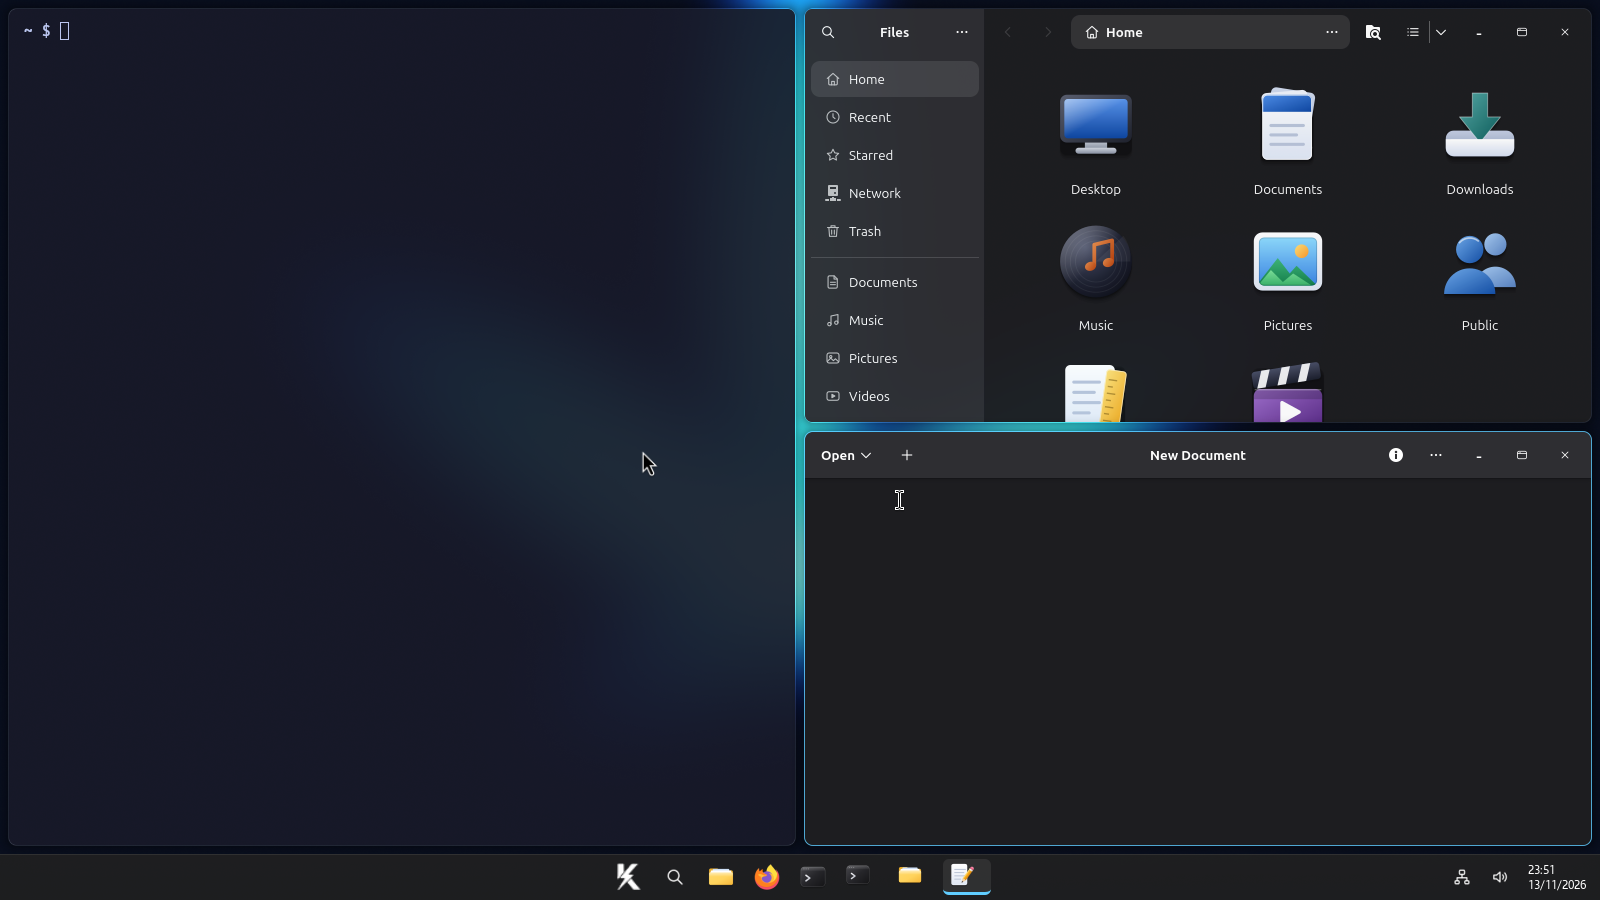
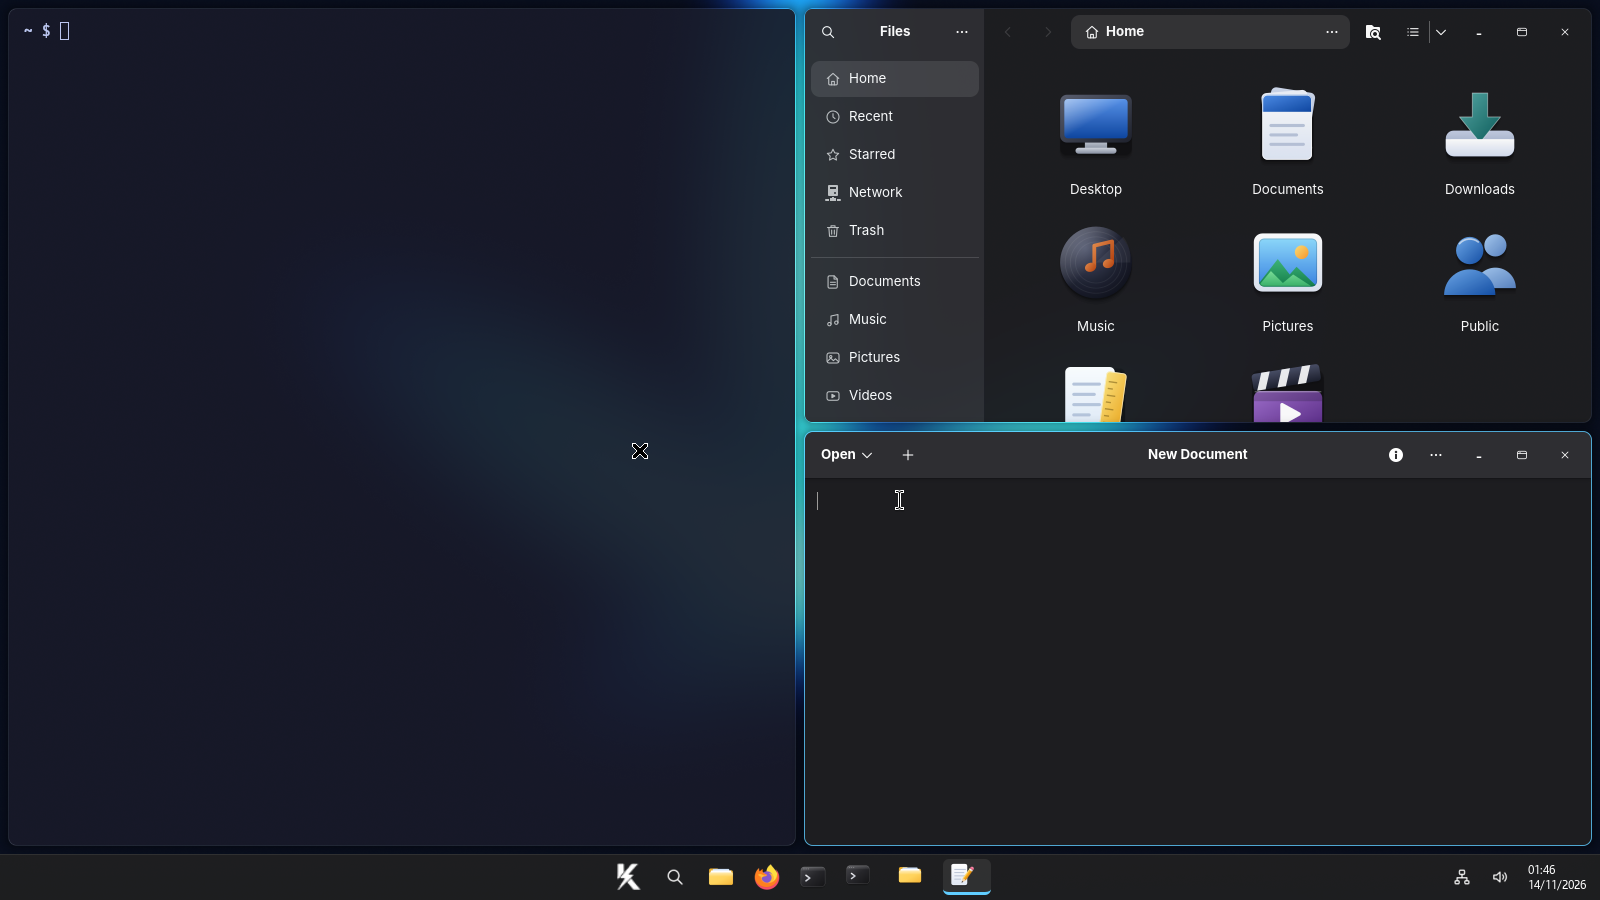
desktop: accent-blue GNOME sidebar in the macOS layout, hyprbars in kwick-hyprland
The macOS GTK styles tint every Files sidebar row accent blue.
kwick-hyprland now builds and ships the hyprbars plugin, loaded in the
macOS tiling layout when ~/.config/kwick/hyprbars exists.

diff --git a/desktop/rootfs/usr/share/kwick/gtk/macos/gtk-4.0.css b/desktop/rootfs/usr/share/kwick/gtk/macos/gtk-4.0.css
@@ -52,6 +52,7 @@ windowcontrols:hover button image {
   color: rgba(0, 0, 0, 0.62);
 }
 
+.navigation-sidebar row image,
 .navigation-sidebar image,
 .sidebar-pane image,
 placessidebar image,

diff --git a/desktop/rootfs/usr/share/kwick/gtk/macos/gtk-3.0.css b/desktop/rootfs/usr/share/kwick/gtk/macos/gtk-3.0.css
@@ -53,6 +53,7 @@ headerbar:hover button image {
   color: rgba(0, 0, 0, 0.62);
 }
 
+.navigation-sidebar row image,
 .navigation-sidebar image,
 .sidebar-pane image,
 placessidebar image,
